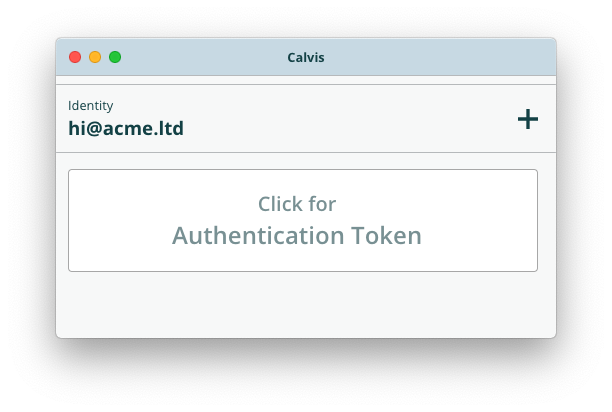
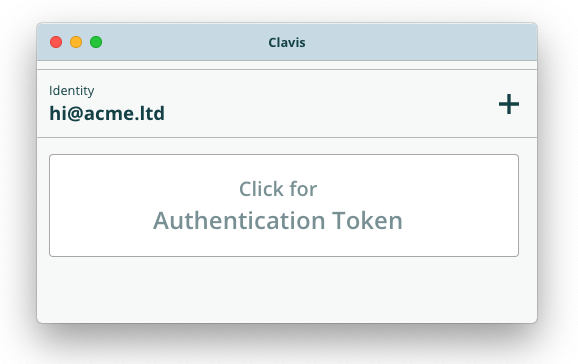
Fix typo in various files

Changed region(s): [[0.0311, 0.0604, 0.9654, 0.9973]]

diff --git a/webpack.config.js b/webpack.config.js
@@ -20,7 +20,6 @@ const webpack = require("webpack");
 const ExtractCssChunks = require("extract-css-chunks-webpack-plugin");
 const TerserPlugin = require("terser-webpack-plugin");
 const HtmlPlugin = require("html-webpack-plugin");
-const CopyPlugin = require('copy-webpack-plugin');
 
 const production = process.env.NODE_ENV === "production";
 
@@ -86,7 +85,7 @@ let config = {
       { filename: "[name].css" }
     ),
     new HtmlPlugin({
-      title: "Calvis",
+      title: "Clavis",
       template: 'index.html',
       chunks: ["app"]
     }),

diff --git a/src/components/Home.js b/src/components/Home.js
@@ -101,7 +101,7 @@ function Home(props) {
   return (
     <div>
       <header>
-        Calvis
+        Clavis
       </header>
       <div className="content-container">
       <div className="content">

diff --git a/README.md b/README.md
@@ -4,9 +4,9 @@
 <img alt="GitHub" src="https://img.shields.io/github/license/adsisto/clavis.svg?color=informational">
 </p>
 
-<p align="center"><img src=".github/screenshot.png" /></p>
-
 <p align="center"><i>Copyright &copy; Andrew Ying 2019.</i></p>
+
+<div align="center"><img src=".github/screenshot.png" /></div>
 
 ## License
 
